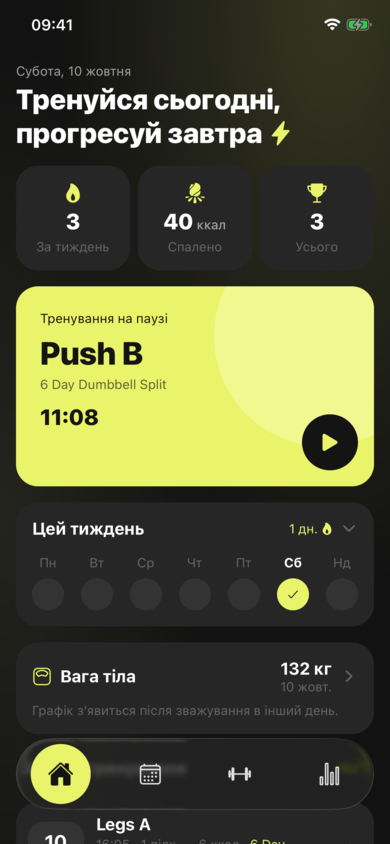
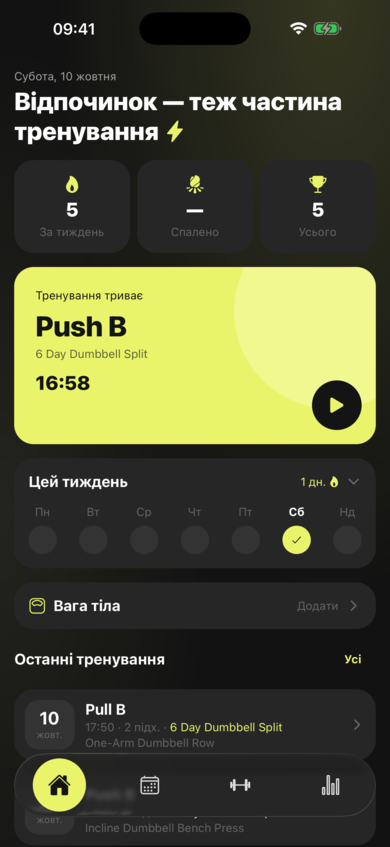
Greet with a different motivational phrase each day
The home headline cycles through 50 phrases by calendar day instead of
always saying "Тренуйся сьогодні, прогресуй завтра".

diff --git a/src/lib/motivation.ts b/src/lib/motivation.ts
@@ -1,0 +1,61 @@
+/** Home screen headlines; a new one each day, in order. */
+const PHRASES = [
+  'Тренуйся сьогодні, прогресуй завтра',
+  'Кожен підхід наближає до мети',
+  'Сила росте тут і зараз',
+  'Маленькі кроки — великі зміни',
+  'Дисципліна сильніша за мотивацію',
+  'Найважчий підхід — перший',
+  'Сьогоднішній піт — завтрашня сила',
+  'Не здавайся — початок уже є',
+  'Тіло досягає того, у що вірить розум',
+  'Краще повільно, ніж ніяк',
+  'Ще один повтор — ще трохи сили',
+  'Твій суперник — вчорашній рекорд',
+  'Результат любить постійність',
+  'Втома минає, гордість лишається',
+  'Зроби сьогодні те, за що подякуєш завтра',
+  'Сила приходить через зусилля',
+  'Не чекай ідеального дня — твори його',
+  'Кожне тренування рахується',
+  'Біль минає, результат лишається',
+  'Важко — значить працює',
+  'Сили в тебе більше, ніж здається',
+  'Прогрес, а не ідеал',
+  'Звичка тренуватися — найкраща звичка',
+  'Один день чи день перший — вирішуй ти',
+  'Гантелі не піднімуть себе самі',
+  'Без зусиль немає змін',
+  'Почни зараз, а не з понеділка',
+  'Сьогодні важче — завтра легше',
+  'Рухайся вперед, навіть повільно',
+  'Твоє тіло — твій проєкт',
+  'Сумніви зникають з кожним повтором',
+  'Чемпіони тренуються, коли не хочеться',
+  'Мета без плану — лише бажання',
+  'Додай ще трохи ваги',
+  'Сталь гартується у вогні',
+  'Не порівнюй себе з іншими',
+  'Відпочинок — теж частина тренування',
+  'Тренуйся розумно, а не лише важко',
+  'Кожна крапля поту — інвестиція',
+  'Будь сильнішим за свої відмовки',
+  'Перемога починається з рішення',
+  'Сила — це вибір щодня',
+  'Найкращий час почати — зараз',
+  'Ти тут — і це вже перемога',
+  'Тримай темп, тримай курс',
+  'Великі цілі будуються щодня',
+  'Зупиняйся не від утоми, а коли справу зроблено',
+  'Здоров’я — найкраща нагорода',
+  'Сильне тіло — сильний дух',
+  'Ще один день — ще один крок',
+];
+
+/** Phrase for the local calendar day of `date`. */
+export function dailyPhrase(date: Date) {
+  const day = Math.floor(
+    Date.UTC(date.getFullYear(), date.getMonth(), date.getDate()) / 86_400_000,
+  );
+  return PHRASES[day % PHRASES.length];
+}

diff --git a/src/app/(tabs)/index.tsx b/src/app/(tabs)/index.tsx
@@ -29,6 +29,7 @@ import { useDbQuery } from '@/hooks/use-db-query';
 import { estimateKcal } from '@/lib/calories';
 import { formatLongDate, formatShortDate, formatWeightDelta, startOfWeek } from '@/lib/labels';
 import { formatNumber } from '@/lib/metrics';
+import { dailyPhrase } from '@/lib/motivation';
 import { prepareRestNotifications } from '@/lib/rest-notifications';
 import { colors, fontSize, radius, spacing } from '@/theme';
 
@@ -87,7 +88,7 @@ export default function HomeScreen() {
       <View style={styles.greeting}>
         <Text variant="caption">{formatLongDate(loadedAt)}</Text>
         <Text variant="title">
-          Тренуйся сьогодні,{'\n'}прогресуй завтра{' '}
+          {dailyPhrase(new Date(loadedAt))}{' '}
           <Ionicons name="flash" size={26} color={colors.accent} />
         </Text>
       </View>
